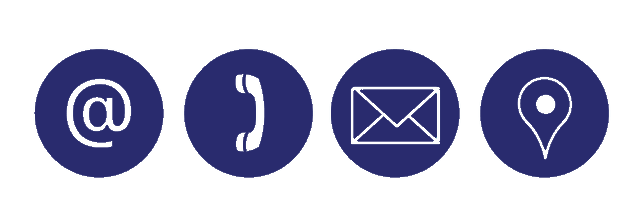
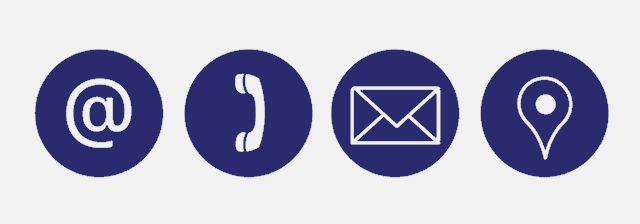
Minor color change to match theme

diff --git a/src/components/ContactUs/ContactUs.css b/src/components/ContactUs/ContactUs.css
@@ -28,7 +28,7 @@
 .Contact-container {
     width: 50%;
     float: right;
-    background-color: #eeeeee;
+    background-color: #ffffff;
     padding: 150px;
 }
 .Contact-container h1 {
